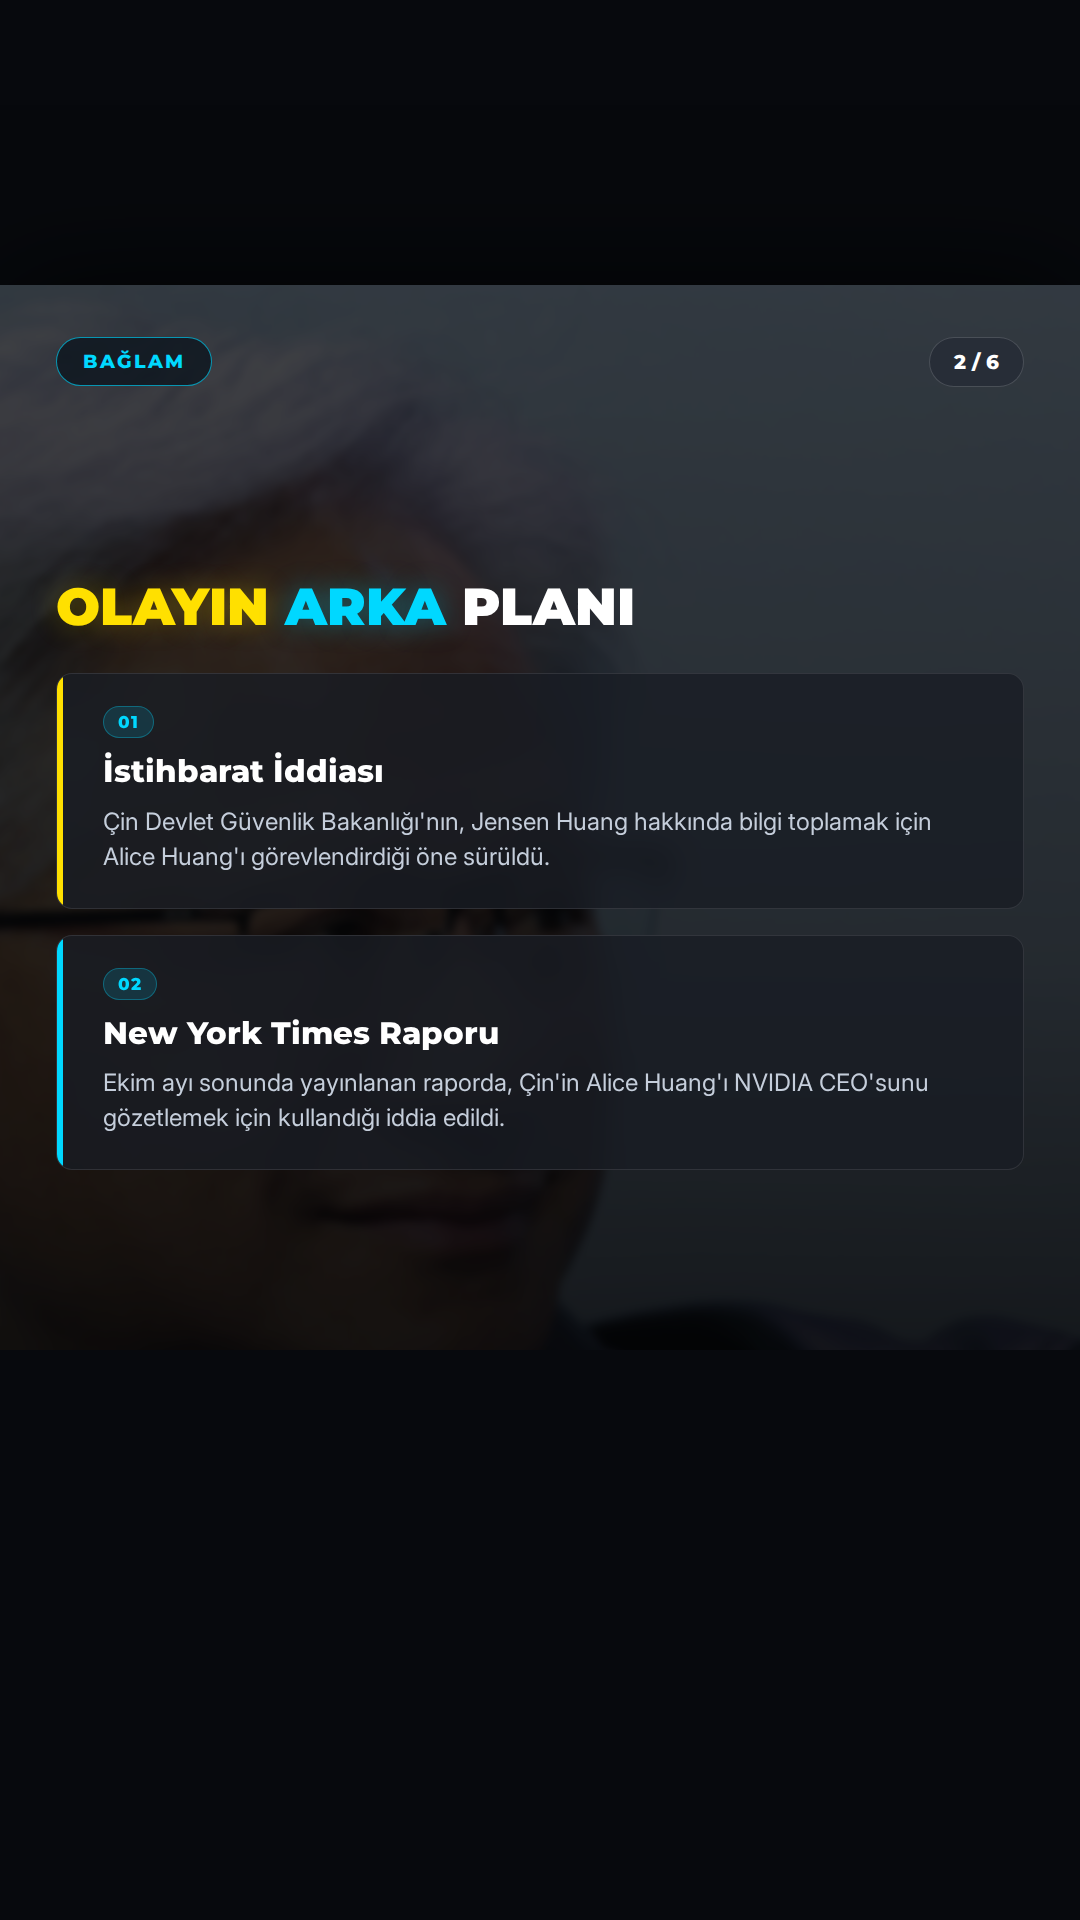
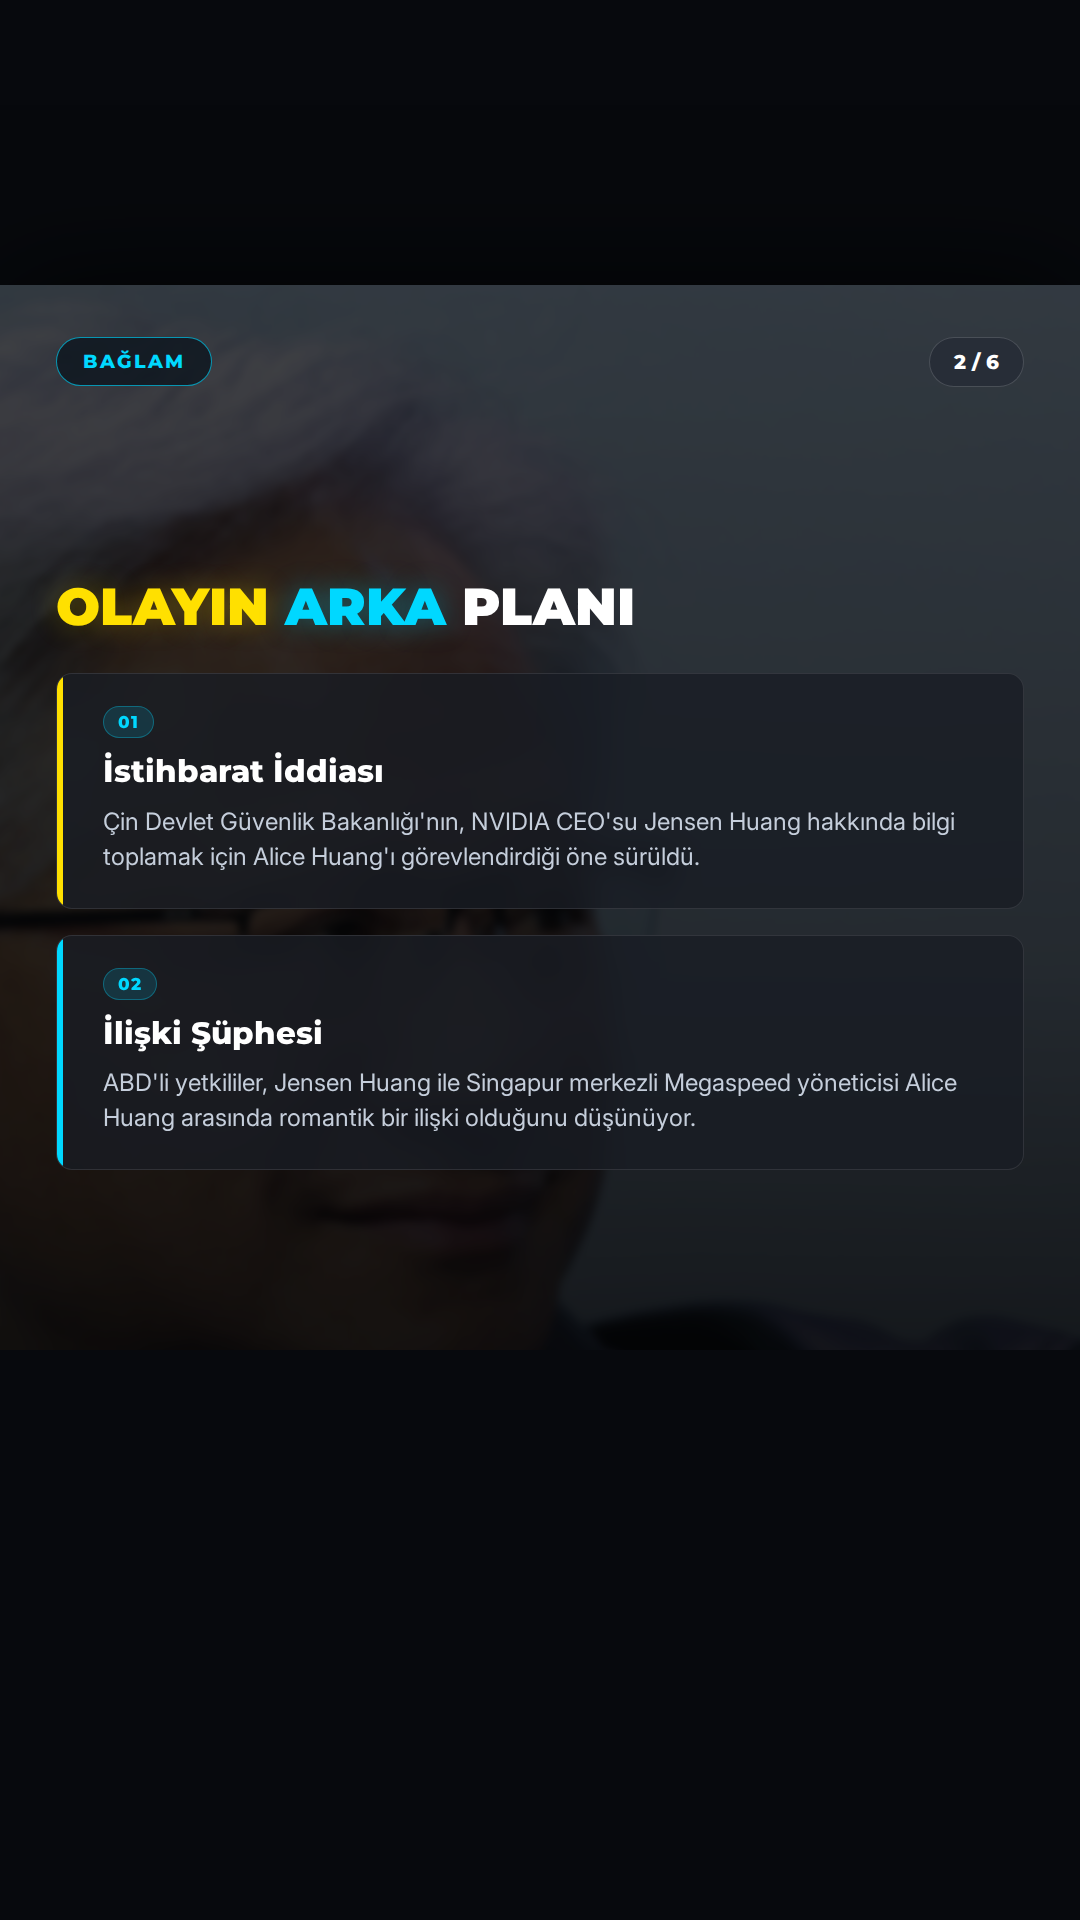
🤖 post: 2026-11-07 09:00 – China's main intelligence agency reportedly recruited the sp

Changed region(s): [[0.0917, 0.5312, 0.8861, 0.5938], [0.0917, 0.4062, 0.8861, 0.4688]]

diff --git a/output/2026-11-07/01-0900-china-s-main-intelligence-agency-reportedly-recr/captions.md b/output/2026-11-07/01-0900-china-s-main-intelligence-agency-reportedly-recr/captions.md
@@ -2,36 +2,36 @@
 
 ## INSTAGRAM
 
-NVIDIA CEO'su Jensen Huang hakkında şok iddialar gündemde! 🚨 Çin istihbaratının, Huang'ı hedef aldığı ve Alice Huang aracılığıyla gözetleme yaptığı öne sürülüyor. Megaspeed firması üzerinden yürütülen çip trafiği ve ABD'li yetkililerin şüpheleri, sektörde büyük yankı uyandırdı. NVIDIA iddiaları reddetse de güvenlik endişeleri artıyor. Sizce teknoloji dünyasında jeopolitik rekabetin bu denli derinleşmesi, inovasyonu nasıl etkiler? Yorumlarda buluşalım. Kaynak: BBC News, The Verge, Engadget, Ars Technica
+NVIDIA'nın merkezinde casusluk şüphesi mi var? Teknoloji dünyası, CEO Jensen Huang ve Çin bağlantılı iddiaları konuşuyor. New York Times'a göre, Çin istihbaratının Huang'dan bilgi toplamak için operasyon yürüttüğü öne sürülüyor. NVIDIA ise Megaspeed ile yapılan işlemlerde usulsüzlük bulamadığını belirtiyor. Yapay zeka çiplerinin tedarik zinciri ve ulusal güvenlik arasındaki bu denge, teknoloji devlerini nasıl etkileyecek? Sizce güvenlik sınırı nerede başlamalı? Tekno Pusula'yı takipte kalın. Kaynak: The Verge, BBC News
 
-#NVIDIA #JensenHuang #Teknoloji #YapayZeka #İstihbarat #Geopolitics #TechNews #CyberSecurity
+#NVIDIA #JensenHuang #Teknoloji #YapayZeka #SiberGüvenlik #Çin #TechNews #AI #TeknoPusula
 
 ## TIKTOK
 
-NVIDIA CEO'su Jensen Huang hakkında şok iddia! 🤯 Çin istihbaratının Huang'ı hedef aldığı ve gizli bir gözetleme operasyonu yürüttüğü konuşuluyor. Megaspeed firması ve yapay zeka çipleri üzerinden dönen bu iddialar, teknoloji dünyasını sarstı. Detaylar Tekno Pusula'da! Kaynak: BBC News, The Verge
+NVIDIA CEO'su Jensen Huang ve Çin arasında casusluk krizi mi? New York Times'a göre, Çin istihbaratının Huang'ı gözetlemek için plan yaptığı iddia ediliyor. Megaspeed üzerinden dönen çip trafiği mercek altında. Bu iddialar hakkında ne düşünüyorsunuz? Kaynak: The Verge, BBC News
 
-#NVIDIA #JensenHuang #Teknoloji #YapayZeka
+#NVIDIA #TeknolojiHaberleri #JensenHuang #YapayZeka #Gündem
 
 ## X
 
-NVIDIA CEO'su Jensen Huang hakkında şok iddia: Çin istihbaratının Huang'ı hedef aldığı ve Alice Huang aracılığıyla gözetlediği öne sürülüyor. Megaspeed üzerinden yürütülen çip trafiği ve jeopolitik riskler gündemde. Teknoloji dünyasında rekabet derinleşiyor. Kaynak: BBC News,…
+NVIDIA CEO'su Jensen Huang hakkında şok casusluk iddiası! NYT, Çin istihbaratının Huang'ı gözetlemek için operasyon yürüttüğünü öne sürüyor. Teknoloji devlerinin uluslararası ilişkilerinde güvenlik sınırı nerede olmalı? Kaynak: The Verge, BBC News
 
-#NVIDIA #JensenHuang
+#NVIDIA #Teknoloji
 
 ## THREADS
 
-NVIDIA CEO'su Jensen Huang hakkında şok iddia! 🚨 Çin istihbaratının, Huang'ı hedef aldığı ve Alice Huang aracılığıyla gözetleme yaptığı öne sürülüyor. Megaspeed firması üzerinden yürütülen çip trafiği, teknoloji dünyasında güvenlik endişelerini zirveye taşıdı. Sizce bu rekabet inovasyonu nasıl etkiler? Kaynak: BBC News, The Verge
+NVIDIA'da Casusluk İddiası! 💭 New York Times'a göre, Çin istihbaratının NVIDIA CEO'su Jensen Huang'ı gözetlemek için operasyon yürüttüğü iddia ediliyor. Megaspeed üzerinden yapılan çip ticareti, teknoloji dünyasında güvenlik tartışmalarını alevlendirdi. Sizce teknoloji devlerinin uluslararası ilişkilerinde güvenlik sınırı nerede başlamalı? Tekno Pusula'yı takipte kalın. Kaynak: The Verge, BBC News
 
 #Teknoloji
 
 ## LINKEDIN
 
-Teknoloji dünyasında jeopolitik riskler, kurumsal güvenliği yeniden tanımlıyor. NVIDIA CEO'su Jensen Huang'ın Çin istihbaratı tarafından hedef alındığına dair iddialar, küresel tedarik zinciri ve yapay zeka çiplerinin yönetimi konusunda ciddi soru işaretleri yaratıyor. Megaspeed firması üzerinden yürütülen iddialar, teknoloji devlerinin iş ortaklıklarını daha sıkı denetim altına almalarını zorunlu kılıyor. Sektörel güvenlik endişeleri, inovasyonun önündeki en büyük engellerden biri haline gelebilir mi? Kaynak: BBC News, The Verge, Engadget, Ars Technica
+Teknoloji dünyasında güvenlik protokolleri ve kurumsal denetim gündemde. NVIDIA CEO'su Jensen Huang'ın, Çin istihbarat faaliyetleriyle ilişkilendirildiği iddiaları, küresel tedarik zincirinin hassasiyetini gözler önüne seriyor. New York Times tarafından raporlanan olay, büyük teknoloji şirketlerinin iş ortaklıklarının kritik olduğunu hatırlatıyor. NVIDIA, iç soruşturmasında Megaspeed ile yapılan işlemlerde usulsüzlük bulamadığını belirtse de, yapay zeka çiplerinin stratejik önemi bu iddiaları sektörel bir güvenlik meselesine dönüştürüyor. Sizce güvenlik sınırı nerede başlamalı? Kaynak: The Verge, BBC News
 
-#NVIDIA #YapayZeka #Teknoloji #SiberGüvenlik #Geopolitics
+#NVIDIA #YapayZeka #SiberGüvenlik #TeknolojiYönetimi
 
 ## FACEBOOK
 
-NVIDIA CEO'su Jensen Huang hakkında şok iddialar gündemde! 🚨 Çin istihbaratının, Huang'ı hedef aldığı ve Alice Huang aracılığıyla gözetleme yaptığı öne sürülüyor. Megaspeed firması üzerinden yürütülen çip trafiği ve ABD'li yetkililerin şüpheleri, sektörde büyük yankı uyandırdı. NVIDIA iddiaları reddetse de güvenlik endişeleri artıyor. Sizce teknoloji dünyasında jeopolitik rekabetin bu denli derinleşmesi, inovasyonu nasıl etkiler? Yorumlarda buluşalım. Kaynak: BBC News, The Verge, Engadget, Ars Technica
+NVIDIA'nın merkezinde casusluk şüphesi! Teknoloji dünyası, CEO Jensen Huang ve Çin bağlantılı iddiaları konuşuyor. New York Times'a göre, Çin istihbaratının Huang'dan bilgi toplamak için operasyon yürüttüğü öne sürülüyor. NVIDIA ise Megaspeed ile yapılan işlemlerde usulsüzlük bulamadığını belirtiyor. Yapay zeka çiplerinin tedarik zinciri ve ulusal güvenlik arasındaki bu denge, teknoloji devlerini nasıl etkileyecek? Sizce güvenlik sınırı nerede başlamalı? Tekno Pusula'yı takipte kalın. Kaynak: The Verge, BBC News
 
-#NVIDIA #JensenHuang #Teknoloji #YapayZeka #İstihbarat
+#NVIDIA #JensenHuang #Teknoloji #YapayZeka #SiberGüvenlik

diff --git a/output/2026-11-07/01-0900-china-s-main-intelligence-agency-reportedly-recr/verification.md b/output/2026-11-07/01-0900-china-s-main-intelligence-agency-reportedly-recr/verification.md
@@ -3,14 +3,14 @@
 **Haber:** China's main intelligence agency reportedly recruited the spy who targeted NVIDIA's CEO
 **Canonical URL:** https://www.engadget.com/2310084/china-main-intelligence-agency-recruit-spy-targeted-nvidias-ceo/
 **Kaynaklar:** Engadget, The Verge, BBC News – Technology, Ars Technica
-**Kontrol zamanı:** 2026-11-07T17:12:50+03:00
+**Kontrol zamanı:** 2026-11-07T17:18:06+03:00
 **Sonuç:** ✅ YAYINLANABİLİR
 
 ---
 
 ## İddia Bazlı Sonuçlar
 
-### 1. Çin'in ana istihbarat teşkilatı olan Devlet Güvenlik Bakanlığı, NVIDIA CEO'su Jensen Huang hakkında bilgi toplaması için Alice Huang'ı işe aldı.
+### 1. Çin'in ana istihbarat teşkilatı olan Devlet Güvenlik Bakanlığı, NVIDIA CEO'su Jensen Huang hakkında bilgi toplamak için Alice Huang'ı işe aldı.
 - **Karar:** ✅ `supported`
 - **Kanıtlar:**
   - [https://www.engadget.com/2310084/china-main-intelligence-agency-recruit-spy-targeted-nvidias-ceo/](https://www.engadget.com/2310084/china-main-intelligence-agency-recruit-spy-targeted-nvidias-ceo/)
@@ -28,31 +28,31 @@
   - [https://www.engadget.com/2310084/china-main-intelligence-agency-recruit-spy-targeted-nvidias-ceo/](https://www.engadget.com/2310084/china-main-intelligence-agency-recruit-spy-targeted-nvidias-ceo/)
     > The Financial Times has also reported that US officials believe Jensen Huang was romantically involved with Alice Huang, based on information provided by American intelligence.
 
-### 4. New York Times, Çin'in Alice Huang'ı NVIDIA CEO'sunu gözetlemek için kullandığını Ekim ayı sonunda rapor etmiştir.
+### 4. New York Times, Çin'in Alice Huang'ı NVIDIA CEO'sunu gözetlemek için kullandığını Ekim ayı sonunda raporladı.
 - **Karar:** ✅ `supported`
 - **Kanıtlar:**
   - [https://www.engadget.com/2310084/china-main-intelligence-agency-recruit-spy-targeted-nvidias-ceo/](https://www.engadget.com/2310084/china-main-intelligence-agency-recruit-spy-targeted-nvidias-ceo/)
     > In late October, the publication reported that China used Alice Huang, an executive at Singapore data center firm Megaspeed, to spy on the NVIDIA CEO.
 
-### 5. Megaspeed, NVIDIA'dan milyarlarca dolarlık yapay zeka çipi satın almıştır.
+### 5. Megaspeed, NVIDIA'dan milyarlarca dolar değerinde yapay zeka çipi satın almıştır.
 - **Karar:** ✅ `supported`
 - **Kanıtlar:**
   - [https://www.engadget.com/2310084/china-main-intelligence-agency-recruit-spy-targeted-nvidias-ceo/](https://www.engadget.com/2310084/china-main-intelligence-agency-recruit-spy-targeted-nvidias-ceo/)
     > Megaspeed was a huge NVIDIA customer and had purchased billions' worth of AI chips from the company.
 
-### 6. Megaspeed, Güneydoğu Asya'da inşa ettiği veri merkezlerindeki bilgi işlem gücünü Alibaba'ya kiralamaktadır.
+### 6. Megaspeed, Güneydoğu Asya'da veri merkezleri inşa ederek bu merkezlerin işlem gücünü Alibaba'ya kiralamaktadır.
 - **Karar:** ✅ `supported`
 - **Kanıtlar:**
   - [https://www.engadget.com/2310084/china-main-intelligence-agency-recruit-spy-targeted-nvidias-ceo/](https://www.engadget.com/2310084/china-main-intelligence-agency-recruit-spy-targeted-nvidias-ceo/)
     > It's been building data centers in Southeast Asia and then renting out the computing power to Alibaba, giving the Chinese company access to advanced NVIDIA chips that are banned in its native country.
 
-### 7. NVIDIA, kendi iç soruşturmasında Megaspeed'in gelişmiş yapay zeka çiplerini Çin'e kaçırma planına karıştığına dair bir kanıt bulamamıştır.
+### 7. NVIDIA, kendi iç soruşturmasında Megaspeed'in çip kaçakçılığı yaptığına dair herhangi bir kanıt bulamadığını açıklamıştır.
 - **Karar:** ✅ `supported`
 - **Kanıtlar:**
   - [https://www.engadget.com/2310084/china-main-intelligence-agency-recruit-spy-targeted-nvidias-ceo/](https://www.engadget.com/2310084/china-main-intelligence-agency-recruit-spy-targeted-nvidias-ceo/)
     > The Fincancial Times says it was also implicated in a scheme to smuggle advanced AI chips into China, but NVIDIA found no evidence of wrongdoing in an internal investigation.
 
-### 8. ABD Başkanı Trump, NVIDIA CEO'su ve Elon Musk ile bu yılın başlarında Pekin'e bir seyahat gerçekleştirmiştir.
+### 8. ABD Başkanı Trump, NVIDIA CEO'su ve Elon Musk ile birlikte bu yılın başlarında Pekin'e bir ziyaret gerçekleştirmiştir.
 - **Karar:** ✅ `supported`
 - **Kanıtlar:**
   - [https://www.engadget.com/2310084/china-main-intelligence-agency-recruit-spy-targeted-nvidias-ceo/](https://www.engadget.com/2310084/china-main-intelligence-agency-recruit-spy-targeted-nvidias-ceo/)
@@ -68,10 +68,10 @@
 | Alice Huang, Singapur merkezli veri merkezi firması Megaspee | supported | supported | supported |
 | ABD'li yetkililer, Jensen Huang'ın Alice Huang ile romantik  | supported | supported | supported |
 | New York Times, Çin'in Alice Huang'ı NVIDIA CEO'sunu gözetle | supported | supported | supported |
-| Megaspeed, NVIDIA'dan milyarlarca dolarlık yapay zeka çipi s | supported | supported | supported |
-| Megaspeed, Güneydoğu Asya'da inşa ettiği veri merkezlerindek | supported | supported | supported |
-| NVIDIA, kendi iç soruşturmasında Megaspeed'in gelişmiş yapay | supported | supported | supported |
-| ABD Başkanı Trump, NVIDIA CEO'su ve Elon Musk ile bu yılın b | supported | supported | supported |
+| Megaspeed, NVIDIA'dan milyarlarca dolar değerinde yapay zeka | supported | supported | supported |
+| Megaspeed, Güneydoğu Asya'da veri merkezleri inşa ederek bu  | supported | supported | supported |
+| NVIDIA, kendi iç soruşturmasında Megaspeed'in çip kaçakçılığ | supported | supported | supported |
+| ABD Başkanı Trump, NVIDIA CEO'su ve Elon Musk ile birlikte b | supported | supported | supported |
 
 ## Kaynak Metinleri
 
